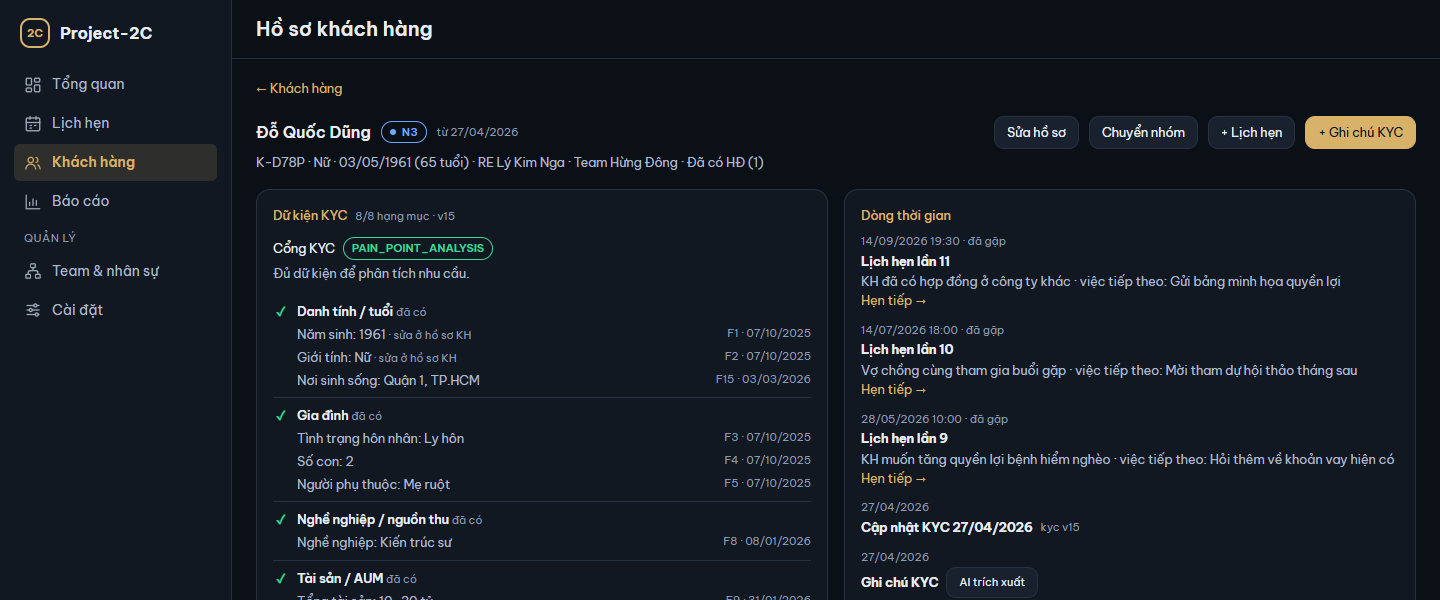
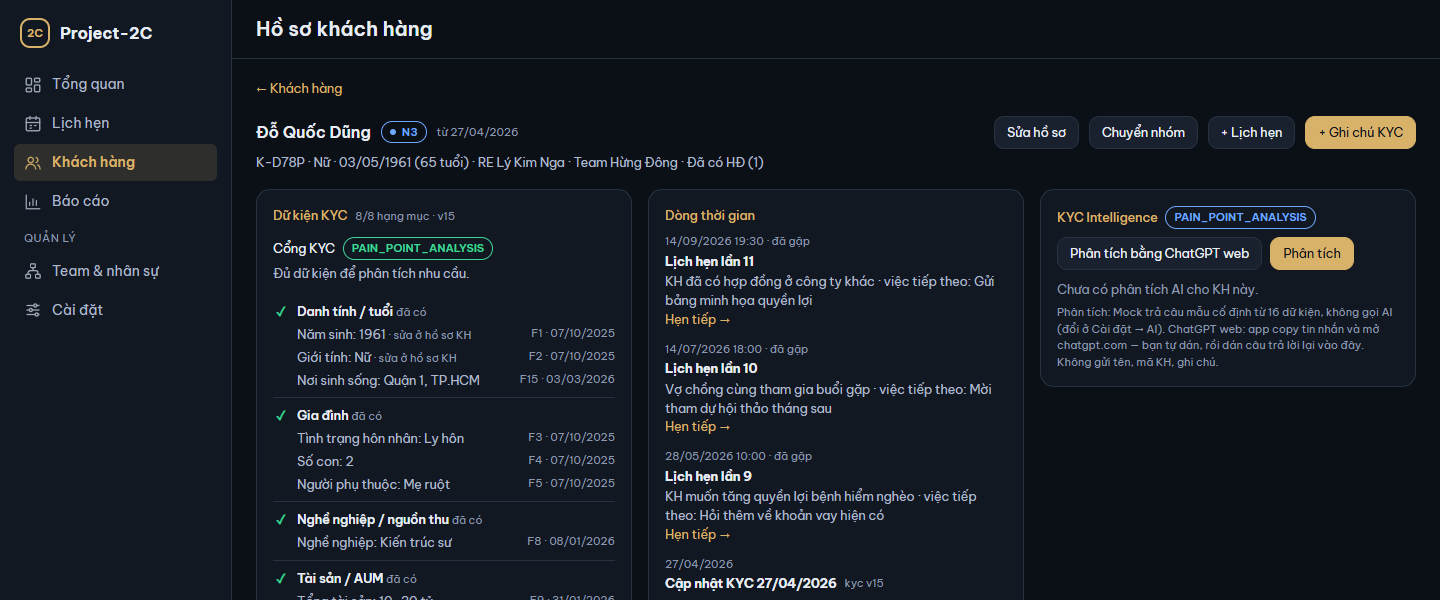
docs: mark RF on meeting stage changes, material KYC versions and the three-column profile in the guide (T-236)

diff --git a/docs/testing/nghiem-thu-v1.md b/docs/testing/nghiem-thu-v1.md
@@ -179,7 +179,7 @@ Mockup `appointments.html` là vòng 2 (26/09); phần lịch tháng / năm / 4 
 | NT-HS-08 | 7d · Giải quyết | Bấm **Giải quyết** cạnh trường của NT-HS-07; chọn một giá trị; **Giải quyết** | Hộp "Giải quyết · <trường>": "Chọn giá trị đúng; giá trị còn lại thành cũ. Ghi chú gốc giữ nguyên."; mỗi giá trị kèm mã F, ghi chú, ngày; câu "Không giá trị nào đúng? …"; "Sau khi lưu: KYC v… · cổng KYC …". Sau khi lưu: hết mâu thuẫn, cổng theo câu báo trước | | |
 | NT-HS-09 | 7d · mâu thuẫn phụ | KH có **Mâu thuẫn phụ** (seed, hoặc tạo như NT-HS-07 với trường phụ) → Giải quyết | Hộp có ô "Đánh dấu là thay đổi quan trọng — nên phân tích AI lại", mặc định tắt. Mâu thuẫn phụ không chặn Phân tích | | |
 | NT-HS-10 | 7e · lỗi | + Ghi chú KYC: để trống ghi chú mà thêm dữ kiện, Lưu; chọn Đánh dấu mâu thuẫn ở trường chưa có giá trị / cùng giá trị; ghi chú không kèm dữ kiện; Ngày ghi nhận ngày mai | Ghi chú trống: "Mỗi dữ kiện phải gắn với một ghi chú có nội dung: nhập ghi chú."; mâu thuẫn không hợp lệ: "Không đánh dấu mâu thuẫn được: … Hãy dùng "Cập nhật"."; chỉ ghi chú: "Chỉ thêm ghi chú, không tạo phiên bản KYC."; ngày mai: báo lỗi ngày sau hôm nay. Chọn trường mà chưa bấm Thêm dữ kiện rồi Lưu → nhắc "Dữ kiện đang nhập chưa được thêm…" | | |
-| NT-HS-11 | Dòng thời gian | Xem thẻ **Dòng thời gian** của một KH nhiều lịch | Mới nhất ở trên. "Lịch hẹn lần n": ngày giờ · trạng thái, Trigger, việc tiếp theo, người phối hợp ("+ TL, IS"), **Hẹn tiếp →**; chuyển nhóm "N3 → N2" ghi "tạo KH" / "sau cuộc gặp" / "chuyển tay · không tính RF"; **Ghi chú KYC** (nút AI trích xuất), **Ghi chú hệ thống** (không có nút); "kyc vN" có nhãn "thay đổi quan trọng" khi có. Không có chữ "material" (ý 11). Ghi chú không có nút sửa / xóa | | |
+| NT-HS-11 | Dòng thời gian | Xem thẻ **Dòng thời gian** của một KH nhiều lịch | Mới nhất ở trên. "Lịch hẹn lần n": ngày giờ · trạng thái, Trigger, việc tiếp theo, người phối hợp ("+ TL, IS"), **Hẹn tiếp →**; chuyển nhóm "N3 → N2" ghi "tạo KH" / "sau cuộc gặp · tính 1 RF" / "sau cuộc gặp · không tính RF" / "chuyển tay · không tính RF" (tính 1 RF chỉ khi cuộc gặp đưa KH từ N4 / N3 lên N2 / N1); **Ghi chú KYC** (nút AI trích xuất), **Ghi chú hệ thống** (không có nút); "kyc vN" có nhãn "thay đổi quan trọng" khi có, kyc v1 luôn có. Không có chữ "material" (ý 11). Ghi chú không có nút sửa / xóa | | |
 | NT-HS-12 | Lịch hẹn của KH | Xem thẻ **Lịch hẹn** | Mọi lịch của KH (cả lịch Dời lịch, Hủy); lịch hôm nay / đã qua có **Hẹn tiếp**, lịch tương lai không có; ghi chú dài cắt một dòng; câu ""Hẹn tiếp" = Tạo lịch hẹn tiếp theo…". KH không có lịch: "KH chưa có lịch hẹn." | | |
 | NT-HS-13 | 8a · HĐ nộp | KH chưa có HĐ (thẻ Hợp đồng "Chưa có HĐ. Khi KH đóng phí…") → **+ Hợp đồng**: Ngày nộp hôm nay, FYP `250tr`; **Lưu HĐ** | Hộp "Hợp đồng mới · đã nộp" · "<tên> · K-xxxx"; RE · HĐ tính cho RE này mặc định RE của KH; FYP đọc "250.000.000 ₫ (250 tr)"; có dòng "Case size dự kiến ở cuộc gặp gần nhất: … (chỉ để tham khảo, không tự điền)" khi có. Sau khi lưu: HĐ "Đã nộp", thẻ Kanban có "1 HĐ"; Tổng quan (Lọc) HĐ nộp +1, Case size +250 tr | | |
 | NT-HS-14 | 8b · Phát hành | HĐ của NT-HS-13 → **Phát hành**: ngày hôm nay | Hộp "Phát hành HĐ" · "<tên> · nộp dd/mm/yyyy · FYP nộp 250 tr"; ngày đọc "… · cùng ngày nộp" (hoặc "· n ngày sau khi nộp"); FYP phát hành mặc định = FYP nộp. Sau khi lưu: "Đã phát hành"; HĐ phát hành +1, Doanh số +250 tr, Tỉ lệ chốt tính lại | | |

diff --git a/docs/user-guide/11-thuat-ngu.md b/docs/user-guide/11-thuat-ngu.md
@@ -28,7 +28,7 @@ Thuật ngữ ngành giữ tiếng Anh như trên màn. Bảng dưới giải th
 | **Tạm hoãn**, **Mất cơ hội** | Hai nhóm đóng. KH mới không tạo thẳng vào nhóm đóng. KH đã đóng mở lại luôn về N3 |
 | **Nhóm mở** | N4, N3, N2, N1 |
 | **Đã có HĐ** | Nhãn của KH đã có HĐ nộp. KH vẫn giữ nhóm của mình |
-| **Chuyển nhóm** | Mỗi lần KH đổi nhóm, có ngày; ghi "tạo KH", "sau cuộc gặp" hoặc "chuyển tay · không tính RF" |
+| **Chuyển nhóm** | Mỗi lần KH đổi nhóm, có ngày; ghi "tạo KH", "chuyển tay · không tính RF", "sau cuộc gặp · tính 1 RF" (N4 / N3 lên N2 / N1) hoặc "sau cuộc gặp · không tính RF" |
 | **Chuyển tay** | Đổi nhóm ngoài cuộc gặp, bằng nút **Chuyển nhóm** ở hồ sơ KH (ví dụ KH được gửi giải pháp qua điện thoại). Không bao giờ tính RF |
 
 ## Lịch hẹn
@@ -79,13 +79,13 @@ Thuật ngữ ngành giữ tiếng Anh như trên màn. Bảng dưới giải th
 | **Mâu thuẫn** | Hai dữ kiện đã xác nhận cùng trường, khác giá trị, đều còn hiệu lực. **Mâu thuẫn cốt lõi** (ở trường cốt lõi) chặn phân tích AI; **mâu thuẫn phụ** chỉ cảnh báo |
 | **Cổng KYC** | Trạng thái cho biết KH đủ thông tin để phân tích AI chưa, theo thứ tự ưu tiên: `CONFLICT_RESOLUTION` (có mâu thuẫn cốt lõi) > `KYC_INSUFFICIENT` (thiếu thông tin) > `PROFILE_DISCOVERY` (đủ tối thiểu, nên khám phá thêm) > `PAIN_POINT_ANALYSIS` (đủ để phân tích nhu cầu). Chỉ hai trạng thái cuối gọi AI được |
 | **Phiên bản KYC** (`kyc v…`) | Tạo mới mỗi khi tập dữ kiện còn hiệu lực đổi |
-| **Thay đổi quan trọng** | Phiên bản KYC có đổi ở trường cốt lõi (app tự đánh dấu) hoặc được RE đánh dấu. Nhắc nên phân tích AI lại |
+| **Thay đổi quan trọng** | Phiên bản KYC có đổi ở trường cốt lõi (app tự đánh dấu) hoặc được RE đánh dấu; kyc v1 luôn là thay đổi quan trọng. Dòng thời gian ghi nhãn "thay đổi quan trọng". Nhắc nên phân tích AI lại |
 
 ## AI
 
 | Thuật ngữ | Nghĩa |
 |---|---|
-| **KYC Intelligence** | Phần AI của app, ở cuối hồ sơ KH |
+| **KYC Intelligence** | Phần AI của app, ở cột phải hồ sơ KH (cửa sổ hẹp hơn 1 440 px: ở cuối hồ sơ) |
 | **Mock** | Câu mẫu cố định, không gọi AI, để thử app |
 | **OpenCode** | Dịch vụ app gọi để chạy model AI thật (bản exe). **Gói Go**: trả theo tháng; **Credit**: trừ số dư |
 | **ChatGPT web** | Phân tích làm tay qua tài khoản ChatGPT của bạn |

diff --git a/docs/user-guide/05-ho-so-kh.md b/docs/user-guide/05-ho-so-kh.md
@@ -6,6 +6,8 @@ Hồ sơ KH gom mọi thứ về một KH: KYC, dòng thời gian, hợp đồng
 
 ![Hồ sơ KH](img/05-ho-so-kh.png)
 
+Cửa sổ rộng từ 1 440 px (cỡ mặc định của app) chia hồ sơ ba cột: **Dữ kiện KYC** và **Hợp đồng** · **Dòng thời gian** và **Lịch hẹn** · **KYC Intelligence**. Cửa sổ hẹp hơn còn hai cột, KYC Intelligence xuống cuối hồ sơ.
+
 Đầu hồ sơ: họ tên, nhóm hiện tại và ngày vào nhóm; dòng dưới là mã KH, giới tính, ngày sinh (tuổi), RE, team, "Đã có HĐ (…)" hoặc "Chưa có HĐ". Các nút:
 
 | Nút | Làm gì | Xem |
@@ -71,9 +73,9 @@ Không giá trị nào đúng? Thêm ghi chú KYC mới với giá trị đúng 
 Thẻ **Dòng thời gian** xếp mọi việc của KH, mới nhất ở trên:
 
 - **Lịch hẹn lần …**: ngày giờ và trạng thái, ghi chú cuộc gặp, việc tiếp theo; người phối hợp (vai trò) nếu có. **Hẹn tiếp →** đặt lần gặp kế tiếp (xem [3. Lịch hẹn](03-lich-hen.md#hẹn-tiếp)).
-- Chuyển nhóm: nhóm cũ → nhóm mới, ghi "tạo KH", "sau cuộc gặp" hoặc "chuyển tay · không tính RF".
+- Chuyển nhóm: nhóm cũ → nhóm mới, ghi "tạo KH", "chuyển tay · không tính RF", "sau cuộc gặp · tính 1 RF" (cuộc gặp đưa KH từ N4 / N3 lên N2 / N1) hoặc "sau cuộc gặp · không tính RF" (các lần chuyển khác sau cuộc gặp, ví dụ N4 → N3, N2 → N1).
 - **Ghi chú KYC** (kèm nút **AI trích xuất**) và **Ghi chú hệ thống** (ghi chú app tự ghi từ hồ sơ KH, không có nút AI trích xuất).
-- Phiên bản KYC mới ("kyc v…"), có nhãn "thay đổi quan trọng" khi đổi trường cốt lõi hoặc được đánh dấu.
+- Phiên bản KYC mới ("kyc v…"). Phiên bản có thay đổi quan trọng (đổi trường cốt lõi hoặc được đánh dấu) có nhãn "thay đổi quan trọng"; kyc v1 luôn có nhãn này.
 
 ## Hợp đồng
 
@@ -107,6 +109,6 @@ Thẻ **Lịch hẹn** liệt kê mọi lịch của KH. Mỗi lịch hôm nay h
 
 ## KYC Intelligence
 
-Thẻ **KYC Intelligence** ở cuối hồ sơ chạy và hiện phân tích AI của KH. Cách dùng ở [6. KYC Intelligence](06-ai.md).
+Thẻ **KYC Intelligence** (cột phải; cửa sổ hẹp hơn 1 440 px thì ở cuối hồ sơ) chạy và hiện phân tích AI của KH. Cách dùng ở [6. KYC Intelligence](06-ai.md).
 
 [← 4. Khách hàng](04-khach-hang.md) · [6. KYC Intelligence →](06-ai.md)

diff --git a/docs/user-guide/06-ai.md b/docs/user-guide/06-ai.md
@@ -4,7 +4,7 @@
 
 **KYC Intelligence** là phần AI của app. Từ các dữ kiện KYC bạn đã xác nhận, AI gợi ý giả thuyết về KH, nhu cầu và hướng khám phá cho buổi gặp tới. AI chỉ gợi ý: không tự chạy, không tự ghi dữ kiện, không gửi tin hay đặt lịch. Mọi lần gọi AI đều do bạn bấm.
 
-Thẻ **KYC Intelligence** nằm ở cuối [Hồ sơ KH](05-ho-so-kh.md). Chi tiết lịch hẹn cũng hiện phân tích mới nhất của KH (chỉ đọc, xem [cuối mục này](#ở-chi-tiết-lịch-hẹn)).
+Thẻ **KYC Intelligence** nằm ở cột phải của [Hồ sơ KH](05-ho-so-kh.md) (cửa sổ hẹp hơn 1 440 px thì ở cuối hồ sơ). Chi tiết lịch hẹn cũng hiện phân tích mới nhất của KH (chỉ đọc, xem [cuối mục này](#ở-chi-tiết-lịch-hẹn)).
 
 ![Thẻ KYC Intelligence sau một lần phân tích bằng Mock](img/06-ai-phan-tich.png)
 
